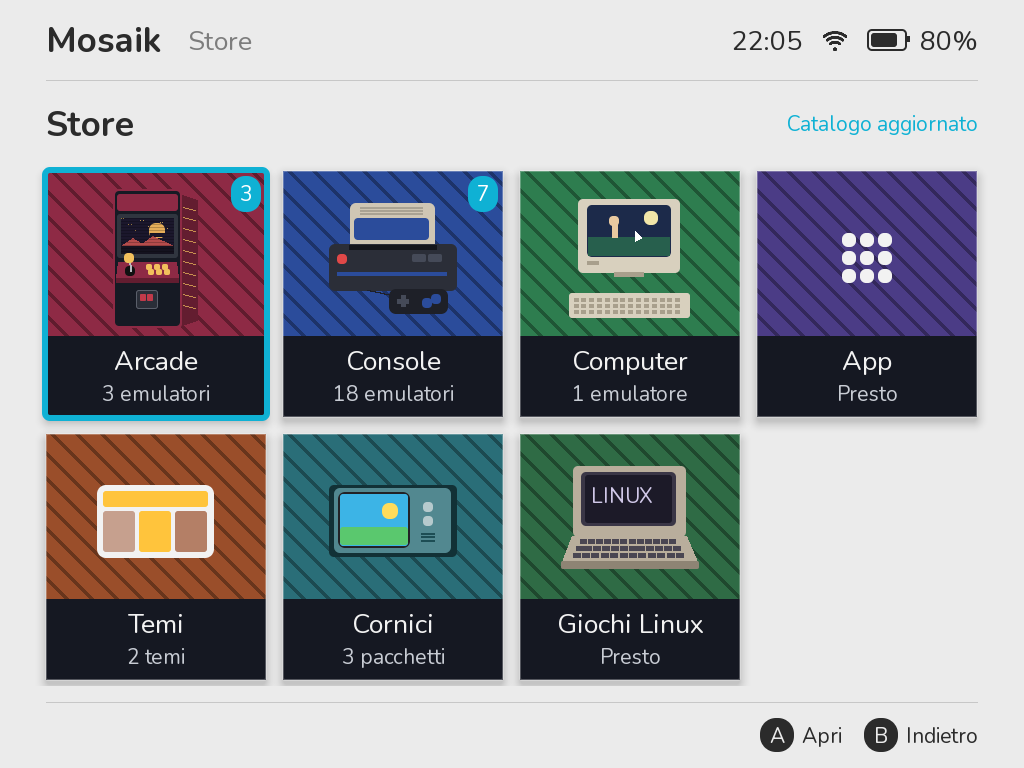
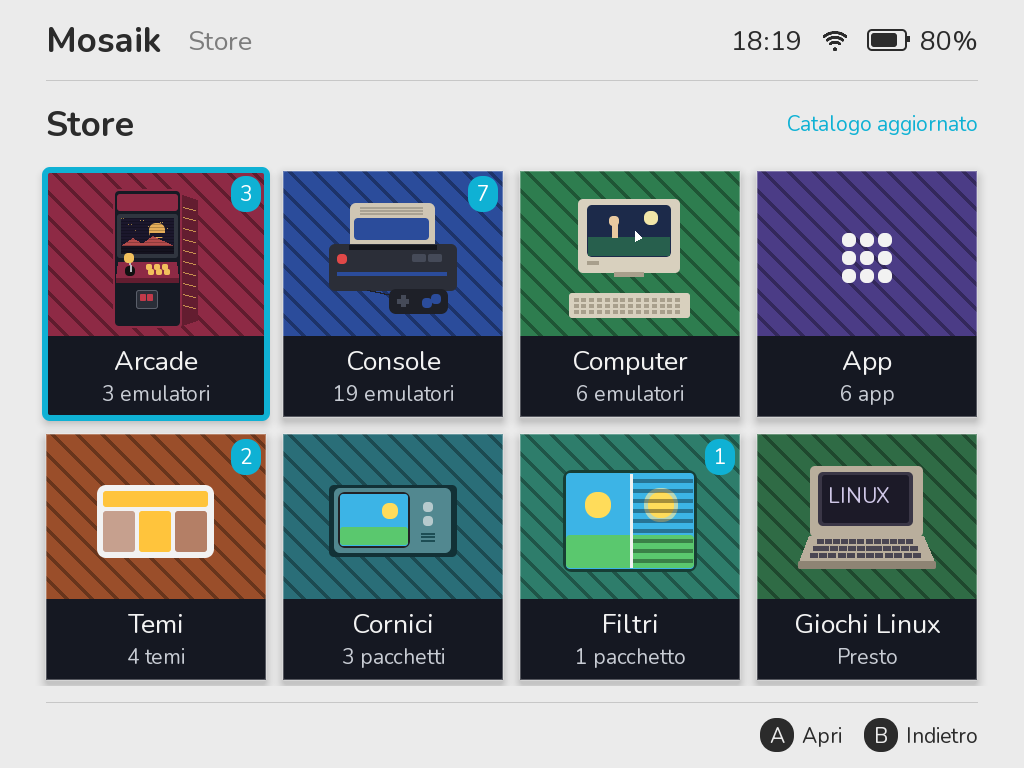
README: Cambia gioco, pannello rapido, collezioni automatiche, app dello Store; foto nuove

diff --git a/README.it.md b/README.it.md
@@ -35,14 +35,19 @@
 - **NES, Super Nintendo, Mega Drive, Master System, Game Gear, PC Engine, Game Boy, Game Boy Color, Game Boy Advance e Neo Geo Pocket**, con i salvataggi a batteria scritti ogni 10 secondi (anche l'orologio dei Pokémon), salvataggi separati per ogni console e le ROM zippate.
 - **PlayStation** (PCSX ReARMed) con le levette del DualShock: dischi `.chd`, `.cue` e `.pbp`, giochi su più dischi con un file `.m3u` e il cambio disco nel menu di gioco.
 - **Dreamcast** con [Deadcast](https://github.com/tyrannotorus/emulator-dreamcast-deadcast), per ora soprattutto sulla Brick Pro.
+- **Altre console nello Store**: Sega CD, PC Engine CD, SG-1000, Atari 2600 e 7800, ColecoVision, Intellivision, Lynx, WonderSwan, Pokémon mini, Virtual Boy; sperimentali PSP (PPSSPP) e Nintendo 64 (Mupen64Plus).
+- **Computer**: ScummVM, ZX Spectrum, MSX, Commodore 64, DOS (DOSBox Pure) e Amiga, con la tastiera a schermo dei loro emulatori.
 - **Copertine e informazioni anche per le console**: scatola, titolo, anno, editore, genere e giocatori, trovati dalla ROM stessa.
 - **Giochi Linux**, con menu sopra al gioco e sospensione.
 - **Avvio in circa 5 secondi**, sospensione con il tasto di accensione.
 - **Wi-Fi integrato** per copertine, storia dei giochi, ora e aggiornamenti.
 - **Trasferimento file via Wi-Fi** da computer o telefono: inquadri il QR o apri `mosaik.local`, poi carichi ROM e scarichi salvataggi senza togliere la scheda.
 - **Backup e ripristino**: un solo zip con salvataggi, impostazioni, BIOS e, se vuoi, i giochi; lo ripristini tutto o solo le parti che scegli, anche su una scheda nuova o sull'altro modello.
-- **App**: i programmi che non sono giochi hanno una sezione loro nella home.
-- **Tre temi con varianti di colore**, lingue, LED e filtri video configurabili.
+- **App dallo Store**: Esplora file, Immagini e fumetti (anche a icone), Lettore musicale, Test della SD, Spazio della SD, Diagnostica e Scarica immagini.
+- **Cambia gioco** (Select): le ultime partite in fila con l'immagine del punto in cui le hai lasciate; scegli e riprendi da lì, senza passare dal menu.
+- **Pannello rapido** (Menu): batteria, temperatura, tempo di gioco, Wi-Fi, altoparlante, LED, musica, cattura, luminosità e volume.
+- **Collezioni automatiche**: Da finire, Partite brevi, Due giocatori, Mai giocati, accanto a preferiti e collezioni tue.
+- **Temi con varianti di colore** (Tessera di base; Cabinato, Onda, Copertina e Stellato nello Store), sei lingue, LED, filtri video e shader, cornici.
 - **Aggiornamenti firmati** via Wi-Fi, tutto o niente: se uno si interrompe o la versione nuova non parte, la console torna a tutti i file di prima.
 - **Profilo CPU per ogni gioco** e avviso nella home quando c'è un aggiornamento.
 - **Diagnosi dei giochi**: quando un gioco non parte, ti dice cosa manca e dove copiarlo.
@@ -58,6 +63,14 @@
   <tr>
     <td align="center">Le piattaforme, per scegliere la categoria prima dei giochi</td>
     <td align="center">La libreria, a griglia di immagini in Tessera</td>
+  </tr>
+  <tr>
+    <td><img src="docs/images/it/switch-game.png" alt="Cambia gioco"></td>
+    <td><img src="docs/images/it/quick-panel.png" alt="Pannello rapido"></td>
+  </tr>
+  <tr>
+    <td align="center">Cambia gioco (Select): riprendi una delle ultime partite</td>
+    <td align="center">Pannello rapido (Menu): stato della console e comandi veloci</td>
   </tr>
   <tr>
     <td><img src="docs/images/it/details.png" alt="Scheda del gioco"></td>
@@ -80,8 +93,8 @@
     <td><img src="docs/images/it/theme-onda.png" alt="Tema Onda"></td>
   </tr>
   <tr>
-    <td align="center">Tema Cabinato: il menu numerato da sala giochi</td>
-    <td align="center">Tema Onda: la libreria come elenco verticale</td>
+    <td align="center">Tema Cabinato (dallo Store): il menu numerato da sala giochi</td>
+    <td align="center">Tema Onda (dallo Store): la libreria come elenco verticale</td>
   </tr>
   <tr>
     <td><img src="docs/images/it/transfer.png" alt="Finestra Trasferisci file"></td>
@@ -96,7 +109,7 @@
     <td><img src="docs/images/it/store.png" alt="Console nello Store"></td>
   </tr>
   <tr>
-    <td align="center">Lo Store: arcade, console, computer, app, temi e cornici</td>
+    <td align="center">Lo Store: arcade, console, computer, app, temi, cornici e filtri</td>
     <td align="center">Emulatori installati a colori, gli altri in grigio</td>
   </tr>
   <tr>
@@ -104,7 +117,7 @@
     <td><img src="docs/images/it/store-delete.png" alt="Anteprima di Elimina nello Store"></td>
   </tr>
   <tr>
-    <td align="center">Temi da scaricare dallo Store</td>
+    <td align="center">Temi da scaricare dallo Store: Cabinato, Copertina, Onda, Stellato</td>
     <td align="center">Prima di eliminare, cosa si toglie e cosa resta</td>
   </tr>
   <tr>
@@ -194,9 +207,10 @@ Arcade/Linux/MioGioco/
 | X | Scheda del gioco |
 | Y | Aggiunge ai preferiti |
 | Start | Impostazioni |
-| Select | Filtri e ordinamento (in libreria) |
+| Select | Filtri e ordinamento (in libreria); Cambia gioco (nella schermata principale) |
+| Menu (nel menu di Mosaik) | Pannello rapido: batteria, Wi-Fi, luminosità, volume, LED, musica, cattura, spegni |
 | L / R | Cambiano scheda in libreria |
-| Menu (giochi arcade e console) | Menu del gioco: salva e carica stato, proporzioni, filtro, comandi, esci |
+| Menu (giochi arcade e console) | Menu del gioco: Cambia gioco, salva e carica stato, proporzioni, filtro, comandi, esci |
 | Menu tenuto 1 s (giochi Linux) | Menu sopra al gioco fermo |
 
 **Tasti rapidi nei giochi arcade e console (tieni premuto Menu):**

diff --git a/README.md b/README.md
@@ -35,14 +35,19 @@
 - **NES, Super Nintendo, Mega Drive, Master System, Game Gear, PC Engine, Game Boy, Game Boy Color, Game Boy Advance and Neo Geo Pocket**, with battery saves written every 10 seconds (also the clock of the Pokémon games), separate saves for each console and zipped ROMs.
 - **PlayStation** (PCSX ReARMed) with the DualShock sticks: `.chd`, `.cue` and `.pbp` discs, games on several discs with a `.m3u` file and the disc change in the game menu.
 - **Dreamcast** with [Deadcast](https://github.com/tyrannotorus/emulator-dreamcast-deadcast), first on the Brick Pro.
+- **More consoles in the Store**: Sega CD, PC Engine CD, SG-1000, Atari 2600 and 7800, ColecoVision, Intellivision, Lynx, WonderSwan, Pokémon mini, Virtual Boy; experimental PSP (PPSSPP) and Nintendo 64 (Mupen64Plus).
+- **Computers**: ScummVM, ZX Spectrum, MSX, Commodore 64, DOS (DOSBox Pure) and Amiga, with their emulators' on-screen keyboards.
 - **Covers and game information for consoles too**: box art, title, year, publisher, genre and players, found by the ROM itself.
 - **Linux games**, with an in-game menu and sleep.
 - **Boots in about 5 seconds**, sleep with the power button.
 - **Built-in Wi-Fi** for covers, game history, time and updates.
 - **Transfer files over Wi-Fi** from a computer or phone: scan the QR code or open `mosaik.local`, then upload ROMs and download saves without taking the card out.
 - **Backup and restore**: one zip with saves, settings, BIOS files and, if you want, the games; restore it all or only the parts you choose, also onto a new card or the other model.
-- **Apps**: programs that aren't games get their own section on the home screen.
-- **Three themes with color variants**, languages, LEDs and video filters you can configure.
+- **Apps from the Store**: Files, Images and comics (also as icons), Music player, SD card test, SD card space, Diagnostics and Download images.
+- **Switch game** (Select): your last games in a row with the picture of where you left them; pick one and resume from there, without going through the menu.
+- **Quick panel** (Menu): battery, temperature, play time, Wi-Fi, speaker, LED, music, screenshot, brightness and volume.
+- **Automatic collections**: To finish, Quick sessions, Two players, Never played, next to favorites and your own collections.
+- **Themes with color variants** (Tessera built in; Cabinet, Wave, Cover and Starry in the Store), six languages, LEDs, video filters and shaders, bezels.
 - **Signed updates** over Wi-Fi, all or nothing: if one is interrupted or the new version fails to start, the console goes back to all the previous files.
 - **CPU profile for each game**, and a notice on the home screen when an update is available.
 - **Game diagnosis**: when a game can't start, it tells you what's missing and where to copy it.
@@ -58,6 +63,14 @@
   <tr>
     <td align="center">Platforms, to pick a category before the games</td>
     <td align="center">The library, as a grid of pictures in Tessera</td>
+  </tr>
+  <tr>
+    <td><img src="docs/images/switch-game.png" alt="Switch game"></td>
+    <td><img src="docs/images/quick-panel.png" alt="Quick panel"></td>
+  </tr>
+  <tr>
+    <td align="center">Switch game (Select): resume one of your last games</td>
+    <td align="center">Quick panel (Menu): console status and quick controls</td>
   </tr>
   <tr>
     <td><img src="docs/images/details.png" alt="Game details"></td>
@@ -80,8 +93,8 @@
     <td><img src="docs/images/theme-onda.png" alt="Onda theme"></td>
   </tr>
   <tr>
-    <td align="center">Cabinato theme: the numbered arcade menu</td>
-    <td align="center">Onda theme: the library as a vertical list</td>
+    <td align="center">Cabinet theme (from the Store): the numbered arcade menu</td>
+    <td align="center">Wave theme (from the Store): the library as a vertical list</td>
   </tr>
   <tr>
     <td><img src="docs/images/transfer.png" alt="Transfer files window"></td>
@@ -96,7 +109,7 @@
     <td><img src="docs/images/store.png" alt="Consoles in the Store"></td>
   </tr>
   <tr>
-    <td align="center">The Store: arcade, consoles, computers, apps, themes and bezels</td>
+    <td align="center">The Store: arcade, consoles, computers, apps, themes, bezels and filters</td>
     <td align="center">Installed emulators in colour, the others in grey</td>
   </tr>
   <tr>
@@ -104,7 +117,7 @@
     <td><img src="docs/images/store-delete.png" alt="Delete preview in the Store"></td>
   </tr>
   <tr>
-    <td align="center">Themes to download from the Store</td>
+    <td align="center">Themes to download from the Store: Cabinet, Cover, Wave, Starry</td>
     <td align="center">Before deleting, what is removed and what is kept</td>
   </tr>
   <tr>
@@ -194,9 +207,10 @@ Arcade/Linux/MyGame/
 | X | Game details |
 | Y | Add to favorites |
 | Start | Settings |
-| Select | Filters and sorting (in the library) |
+| Select | Filters and sorting (in the library); Switch game (on the home screen) |
+| Menu (in the Mosaik menu) | Quick panel: battery, Wi-Fi, brightness, volume, LED, music, screenshot, power off |
 | L / R | Switch tabs in the library |
-| Menu (arcade and console games) | Game menu: save and load state, aspect ratio, filter, controls, exit |
+| Menu (arcade and console games) | Game menu: switch game, save and load state, aspect ratio, filter, controls, exit |
 | Menu held 1 s (Linux games) | Menu over the paused game |
 
 **Shortcuts in arcade and console games (hold Menu):**
